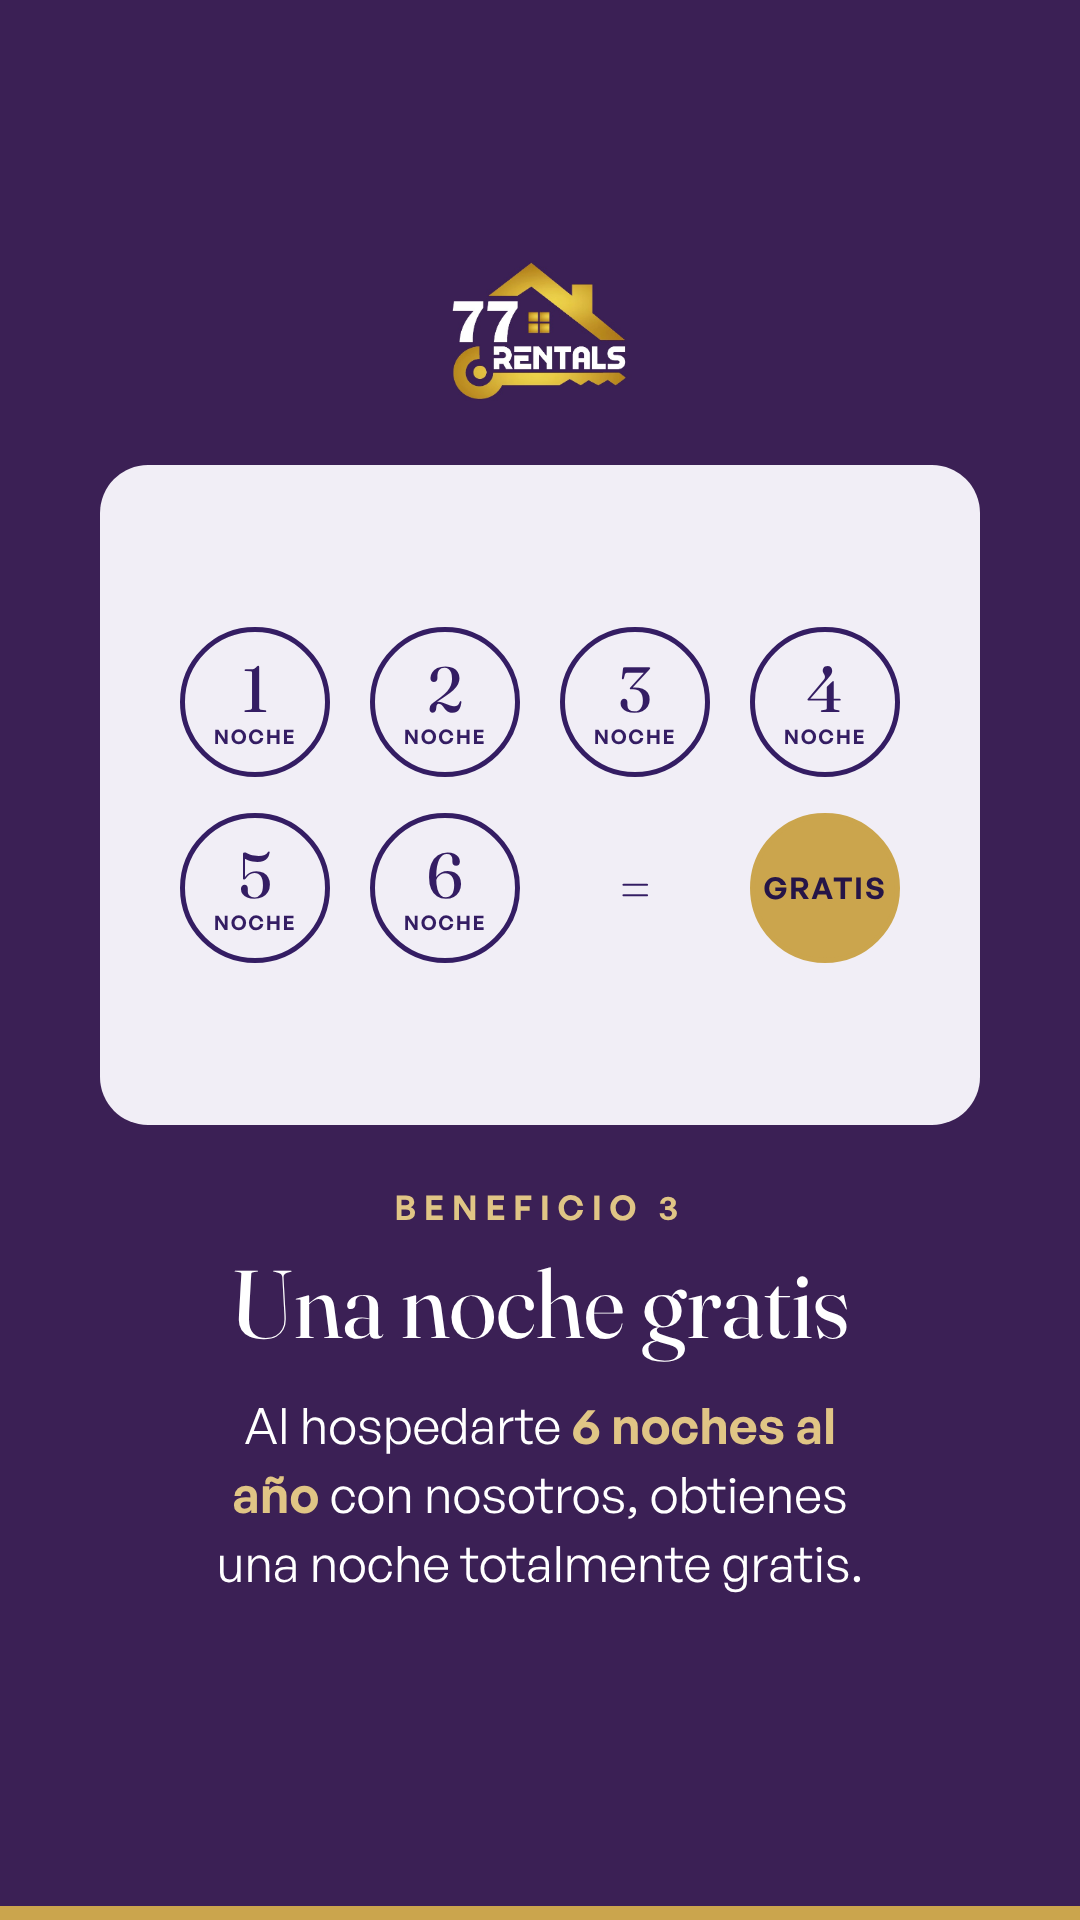
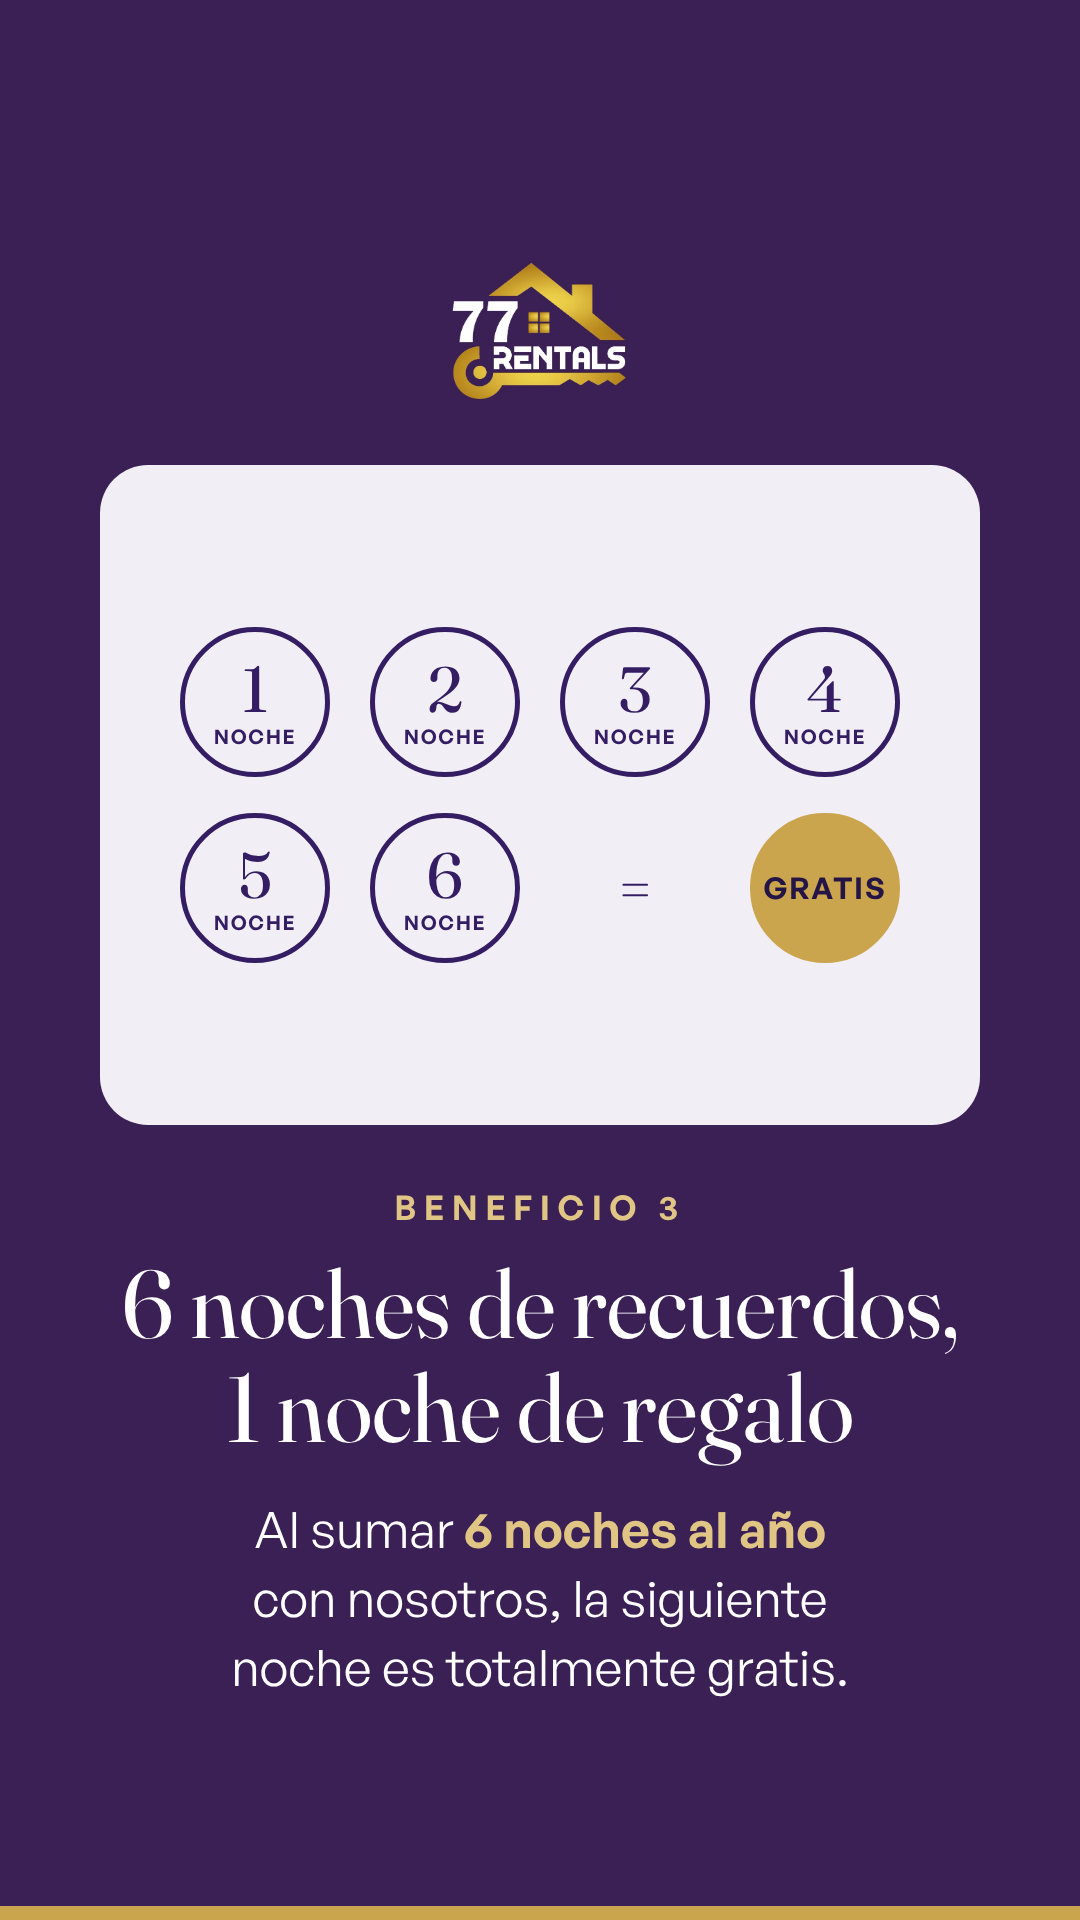
Benefits stories: experience-focused copy and a pet slide
Claude-Session: https://claude.ai/code/session_01TDPBARZhupyD6MsTVAoLWM

Changed region(s): [[0.1833, 0.6562, 0.8556, 0.875], [0.0917, 0.6562, 0.1528, 0.7188], [0.8556, 0.6875, 0.8861, 0.7188]]

diff --git a/posters/stories/beneficios/beneficios.html b/posters/stories/beneficios/beneficios.html
@@ -61,13 +61,14 @@
 <div id="slides"></div>
 <script>
 // Real photos go here: put the file in assets/photos/stories/ and set its path, e.g. '../../../assets/photos/stories/desayuno.jpg'.
-const PHOTOS = { descuentos: null, cumple: null, noches: null, detalle: null };
+const PHOTOS = { descuentos: null, cumple: null, noches: null, mascota: null, detalle: null };
 
 const svg = (inner) => `<svg viewBox="0 0 120 120" fill="none" stroke="currentColor" stroke-width="3.5" stroke-linecap="round" stroke-linejoin="round">${inner}</svg>`;
 const G = 'fill="#CBA54D" stroke="#CBA54D"';
 const ART = {
   descuentos: `<rect x="14" y="24" width="92" height="82" rx="10"/><path d="M14 44h92M38 16v16M82 16v16"/><circle cx="46" cy="64" r="7" ${G}/><circle cx="74" cy="90" r="7" ${G}/><path d="M78 58L42 96" stroke="#CBA54D" stroke-width="5"/>`,
   cumple: `<path d="M12 106h96"/><rect x="22" y="70" width="76" height="36" rx="6"/><rect x="32" y="50" width="56" height="20" rx="5"/><path d="M22 84c8 6 14 6 19 0s12-6 19 0 12 6 19 0 12-6 19 0"/><path d="M46 50V38M60 50V34M74 50V38"/><path d="M46 31c-3-4 0-8 0-8s3 4 0 8zM60 27c-3-4 0-8 0-8s3 4 0 8zM74 31c-3-4 0-8 0-8s3 4 0 8z" ${G}/>`,
+  mascota: `<ellipse cx="54" cy="78" rx="22" ry="18"/><ellipse cx="26" cy="54" rx="8" ry="10"/><ellipse cx="42" cy="36" rx="8" ry="10"/><ellipse cx="66" cy="36" rx="8" ry="10"/><ellipse cx="82" cy="54" rx="8" ry="10"/><g stroke="#CBA54D" stroke-width="4"><rect x="84" y="90" width="26" height="20" rx="2"/><rect x="81" y="83" width="32" height="8" rx="2"/><path d="M97 83v27M97 83c-4-9-14-9-10-1 2 3 10 1 10 1zM97 83c4-9 14-9 10-1-2 3-10 1-10 1z"/></g>`,
   detalle: `<rect x="20" y="54" width="80" height="52" rx="4"/><rect x="14" y="40" width="92" height="16" rx="4"/><path d="M60 40v66" stroke="#CBA54D" stroke-width="6"/><path d="M60 40c-8-18-30-18-22-2 4 6 22 2 22 2zM60 40c8-18 30-18 22-2-4 6-22 2-22 2z" stroke="#CBA54D" stroke-width="5"/>`,
 };
 const photo = (key, fallback) => `<div class="photo">${PHOTOS[key] ? `<img class="ph" src="${PHOTOS[key]}" alt="">` : fallback}</div>`;
@@ -83,36 +84,42 @@ const nightsArt = `<div class="nights">
 const SLIDES = [
   `<div class="slide cover">
     <img class="logo" src="${LOGO}" alt="77Rentals">
-    <h1>¿Eres huésped frecuente?</h1>
+    <h1>Cada vez que vuelves, la experiencia es mejor</h1>
     <div class="rule"></div>
-    <p class="text">Mira los beneficios que tienes con nosotros</p>
+    <p class="text">Así consentimos a nuestros huéspedes frecuentes</p>
     <div class="tap">Toca para ver ${svg('<path d="M30 60h60M66 36l24 24-24 24" stroke-width="8"/>')}</div>
   </div>`,
   `<div class="slide">${mini}${photo('descuentos', svg(ART.descuentos))}
     <div class="kicker">Beneficio 1</div>
-    <h2>Descuentos especiales</h2>
-    <p class="text">En <strong>fechas especiales</strong> durante todo el año.</p>
+    <h2>Más fechas para vivir la ciudad</h2>
+    <p class="text">En <strong>fechas especiales</strong> del año te damos descuentos para que vuelvas a disfrutar tu destino favorito.</p>
   </div>`,
   `<div class="slide">${mini}${photo('cumple', svg(ART.cumple))}
     <div class="kicker">Beneficio 2</div>
-    <h2>¿Viajas por tu cumpleaños?</h2>
-    <p class="text">Te obsequiamos <strong>el primer desayuno</strong> para ti y tus acompañantes.</p>
+    <h2>Tu cumpleaños empieza con desayuno</h2>
+    <p class="text">Despierta en tu día especial con <strong>el primer desayuno por nuestra cuenta</strong>, para ti y quienes te acompañan.</p>
   </div>`,
   `<div class="slide">${mini}${photo('noches', nightsArt)}
     <div class="kicker">Beneficio 3</div>
-    <h2>Una noche gratis</h2>
-    <p class="text">Al hospedarte <strong>6 noches al año</strong> con nosotros, obtienes una noche totalmente gratis.</p>
+    <h2>6 noches de recuerdos, 1 noche de regalo</h2>
+    <p class="text">Al sumar <strong>6 noches al año</strong> con nosotros, la siguiente noche es totalmente gratis.</p>
+  </div>`,
+  `<div class="slide">${mini}${photo('mascota', svg(ART.mascota))}
+    <div class="kicker">Beneficio 4</div>
+    <h2>¿Viajas con tu mascota?</h2>
+    <p class="text">También es bienvenida: se hospeda <strong>sin costo adicional</strong> y recibe un obsequio de bienvenida.</p>
   </div>`,
   `<div class="slide">${mini}${photo('detalle', svg(ART.detalle))}
     <div class="kicker">¿Sabías que...?</div>
-    <h2>Siempre hay un detalle para ti</h2>
-    <p class="text">En cada llegada encontrarás <strong>un detalle de bienvenida</strong> de parte de 77Rentals.</p>
+    <h2>Llegar y sentirte esperado</h2>
+    <p class="text">En cada llegada te espera <strong>un detalle de bienvenida</strong>, porque una buena estadía empieza desde que abres la puerta.</p>
   </div>`,
   `<div class="slide closing">
     <img class="logo" src="${LOGO}" alt="77Rentals">
     <div class="host-label">Your host</div>
     <div class="host">Claudia Moreno</div>
     <div class="rule"></div>
+    <p class="text" style="margin-top:48px">Nos vemos en tu próxima experiencia.</p>
     <p class="find">Encuéntranos en</p>
     <div class="platforms"><span>Airbnb</span><span>Booking.com</span><span>Despegar</span><span>Vrbo</span><span>Hotels.com</span><span>Tripadvisor</span></div>
     <p class="wa"><b>Escríbenos por WhatsApp</b><br>+57 304 673 6241 · @co77rentals</p>
